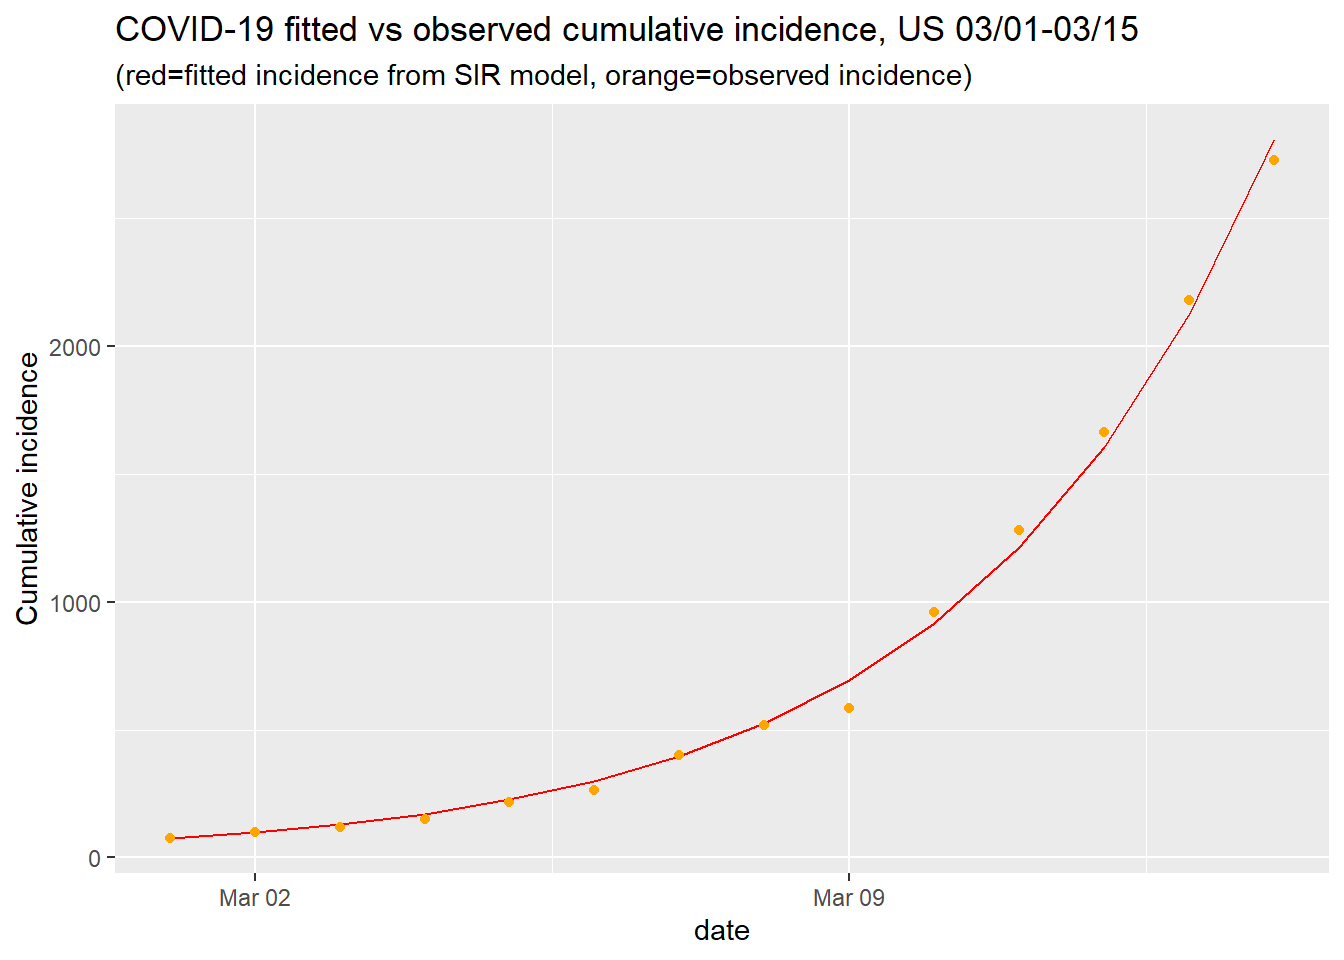
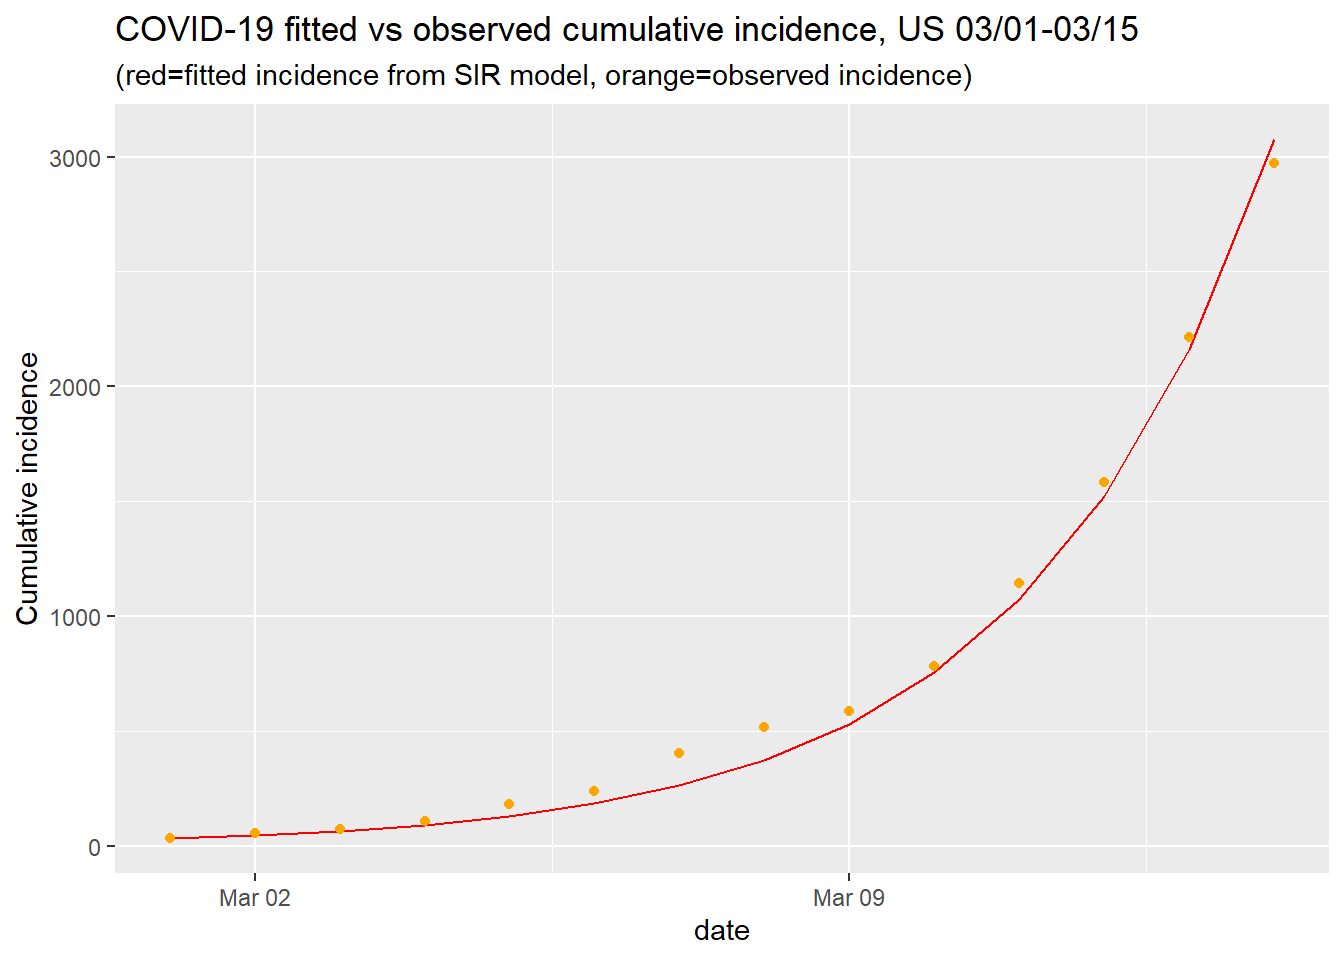
update broken post

diff --git a/content/post/2020-04-17-SIR-model/2020-04-18-sir-model-for-covid19.html b/content/post/2020-04-17-SIR-model/2020-04-18-sir-model-for-covid19.html
@@ -1,25 +1,24 @@
 ---
-title: SIR Model for Covid19
-author: Yuan Du
+title: "SIR Model for Covid19"
+author: "Yuan Du"
 date: '2020-04-18'
-slug: sir-model-for-covid19
-categories:
-  - Statistics
-tags:
-  - Research
-  - Statistical Modeling
-  - Network Science
-  - COVID19
-subtitle: ''
-summary: ''
-authors: []
-lastmod: '2020-04-18T22:35:54-04:00'
+categories: Statistics
 featured: no
 image:
   caption: ''
   focal_point: ''
   preview_only: no
+lastmod: '2020-04-18T22:35:54-04:00'
 projects: []
+slug: sir-model-for-covid19
+subtitle: ''
+summary: ''
+tags:
+- Research
+- Statistical Modeling
+- Network Science
+- COVID19
+authors: []
 ---
 
 
@@ -41,7 +40,8 @@ library(jsonlite)
 library(optimr)
 library(deSolve)
 library(tidyverse)
-library(lubridate)</code></pre>
+library(lubridate)
+library(ggplot2)</code></pre>
 <p><strong>2. Retrieve data from John’s Hopkins and use date March 1st till March 15 to fit SIR Model and check if the fit is reasonable</strong>:</p>
 <pre class="r"><code>#by Johns Hopkins CSSE
 res = GET(&quot;https://pomber.github.io/covid19/timeseries.json&quot;)
@@ -54,20 +54,20 @@ US$date=as.Date(US$date)
 new&lt;-US %&gt;% filter(date&gt;= &quot;2020-03-01&quot;&amp; date&lt;&quot;2020-03-15&quot;) #for US data only
 head(new) #first six rows</code></pre>
 <pre><code>##         date confirmed deaths recovered
-## 1 2020-03-01        74      1         7
-## 2 2020-03-02        98      6         7
-## 3 2020-03-03       118      7         7
-## 4 2020-03-04       149     11         7
-## 5 2020-03-05       217     12         7
-## 6 2020-03-06       262     14         7</code></pre>
+## 1 2020-03-01        32      1         7
+## 2 2020-03-02        54      6         7
+## 3 2020-03-03        74      7         7
+## 4 2020-03-04       107     11         7
+## 5 2020-03-05       184     12         7
+## 6 2020-03-06       237     14         7</code></pre>
 <pre class="r"><code>tail(new) #last six rows</code></pre>
 <pre><code>##          date confirmed deaths recovered
-## 9  2020-03-09       583     22         7
-## 10 2020-03-10       959     28         8
-## 11 2020-03-11      1281     36         8
-## 12 2020-03-12      1663     40        12
-## 13 2020-03-13      2179     47        12
-## 14 2020-03-14      2727     54        12</code></pre>
+## 9  2020-03-09       589     22         7
+## 10 2020-03-10       782     28         8
+## 11 2020-03-11      1145     33         8
+## 12 2020-03-12      1584     43        12
+## 13 2020-03-13      2214     51        12
+## 14 2020-03-14      2971     58        12</code></pre>
 <p><strong>3. build SIR Model and find <span class="math inline">\(\beta\)</span> and <span class="math inline">\(\gamma\)</span> by optimization method <a href="https://en.wikipedia.org/wiki/Residual_sum_of_squares">RSS</a></strong>:</p>
 <pre class="r"><code>#Initial values:
 Infected &lt;- new$confirmed
@@ -99,10 +99,10 @@ Opt &lt;- optim(c(0.5, 0.5), RSS, method = &quot;L-BFGS-B&quot;, lower = c(0,0),
 Opt_par &lt;- setNames(Opt$par, c(&quot;beta&quot;, &quot;gamma&quot;))
 Opt_par</code></pre>
 <pre><code>##      beta     gamma 
-## 0.6398438 0.3601562</code></pre>
+## 0.6755947 0.3244053</code></pre>
 <pre class="r"><code>#R0
 Opt$par[1]/Opt$par[2]</code></pre>
-<pre><code>## [1] 1.776573</code></pre>
+<pre><code>## [1] 2.082563</code></pre>
 <p><strong>4. Plot the predicted value vs raw data</strong></p>
 <pre class="r"><code>sir_start_date &lt;- &quot;2020-03-01&quot;
 t &lt;- 1:as.integer(ymd(&quot;2020-03-15&quot;) - ymd(sir_start_date))
@@ -121,7 +121,7 @@ fitted_cumulative_incidence %&gt;%
   geom_point(aes(y = confirmed), colour = &quot;orange&quot;) + 
   labs(y = &quot;Cumulative incidence&quot;, title = &quot;COVID-19 fitted vs observed cumulative incidence, US 03/01-03/15&quot;, 
        subtitle = &quot;(red=fitted incidence from SIR model, orange=observed incidence)&quot;)</code></pre>
-<p><img src="/post/2020-04-17-2020-SIR-model/2020-04-18-sir-model-for-covid19_files/figure-html/plot-1.png" width="672" /></p>
+<p><img src="/post/2020-04-17-SIR-model/2020-04-18-sir-model-for-covid19_files/figure-html/plot-1.png" width="672" /></p>
 <p><strong>5. The fit looks reasonable with R0=1.78, now we use the model to predict the curve for 3 months starting from March</strong></p>
 <pre class="r"><code>#Prediction
 # time in days for predictions
@@ -143,5 +143,5 @@ fitted_cumulative_incidence %&gt;% ggplot(aes(x = date)) + geom_line(aes(y = I),
   scale_colour_manual(name = &quot;&quot;, values = c(red = &quot;red&quot;, black = &quot;black&quot;, 
                                             green = &quot;green&quot;, orange = &quot;orange&quot;), labels = c(&quot;Susceptible&quot;, 
                                                                                             &quot;Recovered&quot;, &quot;Observed incidence&quot;, &quot;Infectious&quot;))</code></pre>
-<p><img src="/post/2020-04-17-2020-SIR-model/2020-04-18-sir-model-for-covid19_files/figure-html/Prediction-1.png" width="672" /></p>
+<p><img src="/post/2020-04-17-SIR-model/2020-04-18-sir-model-for-covid19_files/figure-html/Prediction-1.png" width="672" /></p>
 <p><strong>Conclusion: It looks like the peak will be in the end of April and it will die down at the end of May.</strong></p>
